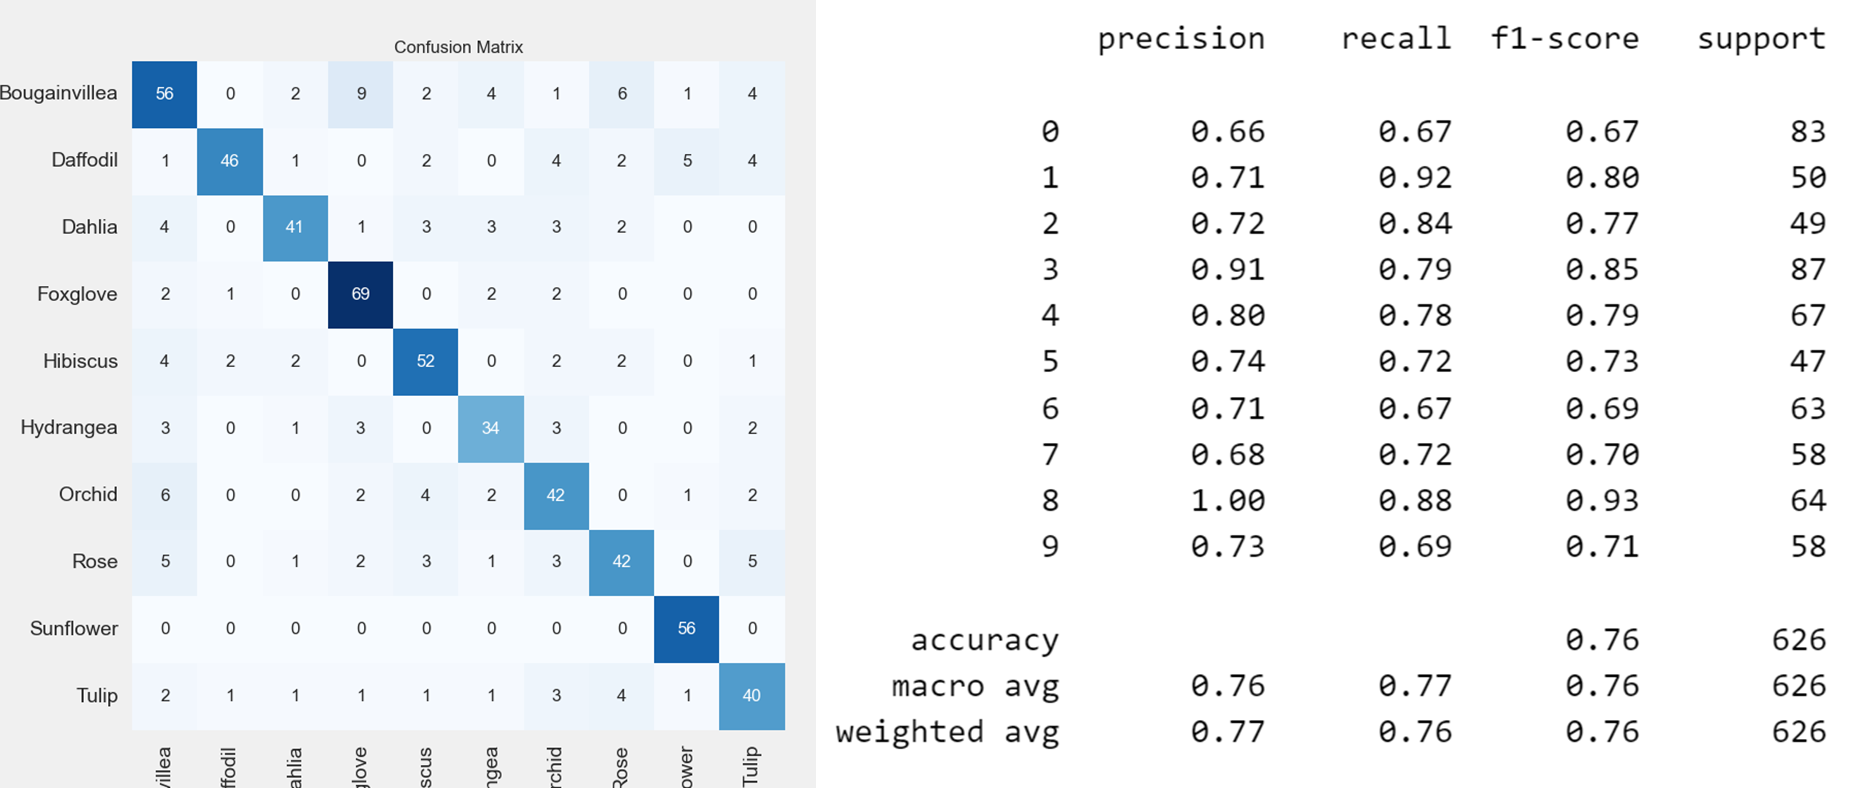
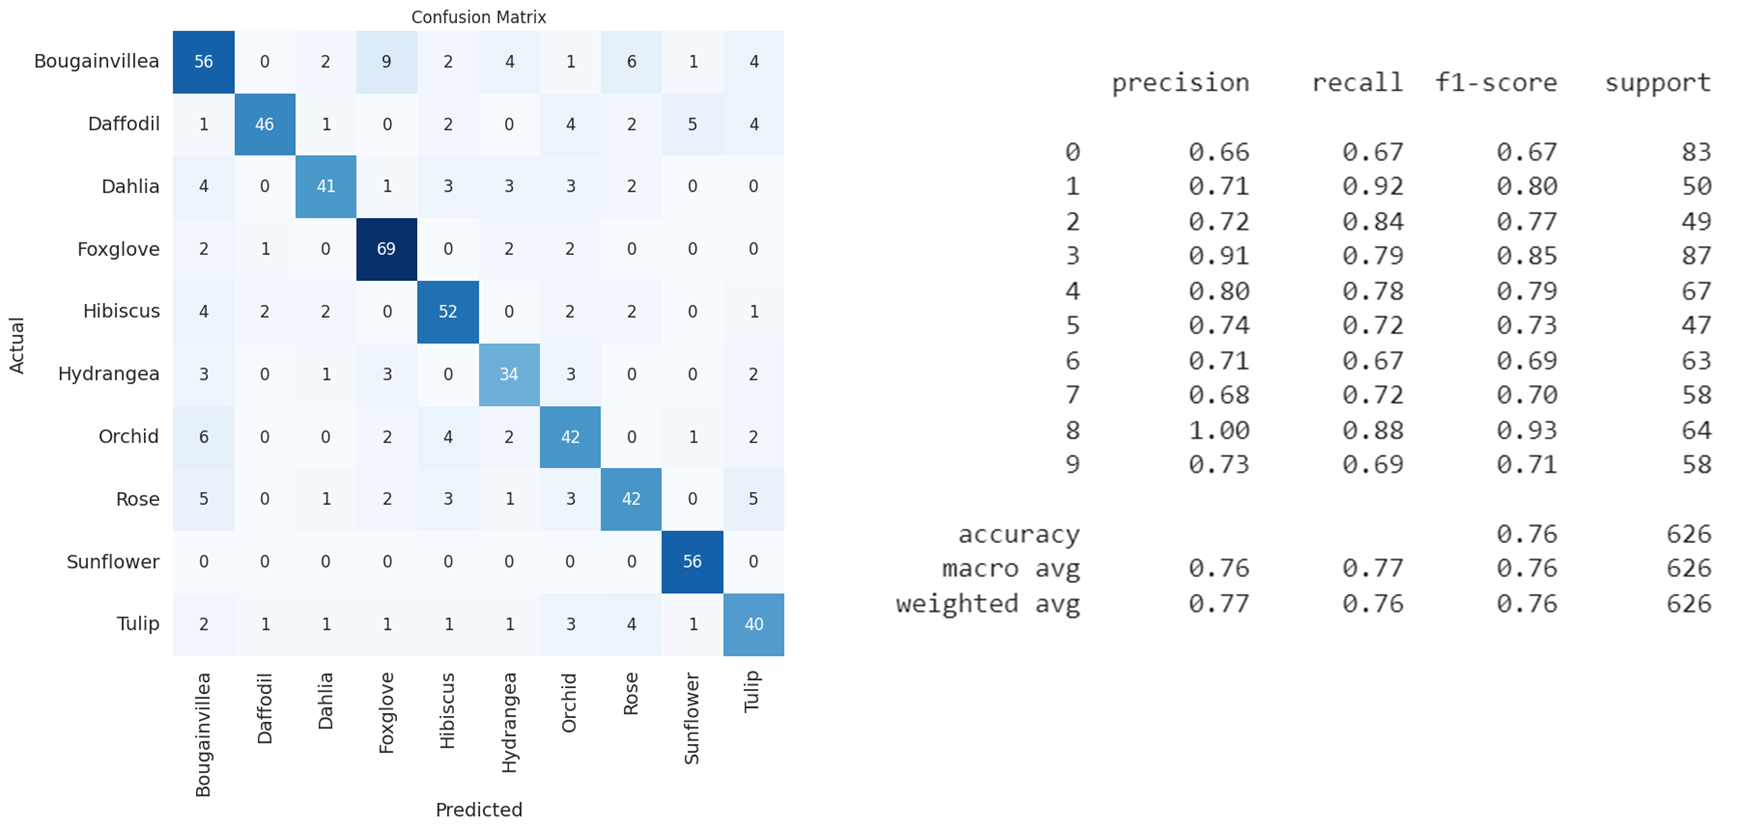
update images for ppt

diff --git a/README.md b/README.md
@@ -29,11 +29,11 @@ This step involved getting rid of junk images such as drawings, flowers tagged i
 
 As part of preprocessing step we rescaled, resized and labeled our data.We then converted our images and labels as .npy files for ease of storing and using them in models. The files can be located [here](https://github.com/joshi-swetam/Flower-Recognition-AI-ML-Model/tree/main/Models/dataset). We used tensorflow and Keras for training our model. We stared with different combinations of Convolutional and pooling layers for feature extractions.The clasiffication layers were combinations of flatten ,dense and dropout layers. We tried building layers with different optimizers and activations functions. We also tried transfer leaning models but they were computaionally more expensive and time consuming. The best accuracy we could reach was 79 percent.All our ipynb files and .h5 saved models can be referred [here](https://github.com/joshi-swetam/Flower-Recognition-AI-ML-Model/tree/main/Models)
 
-We quantified our model using confusion matrix and classification report.After saving the model we made predictions using prediction dataset. 
+We quantified our model using confusion matrix and classification report.After saving the model we made predictions using prediction dataset.
 ![image](/Images/Picture_79.png)
 
-As classification report depicts the accuracy of our model is 79% although the precision differs for flowers. It performs well with sunflowers and Bougainvillea but not so well in predicting Hyrangea.Another thing we noticed that significant numbere of daffodils were being classified as sunflowers.
-If we look at the confusion matrix and classification report for the 76% accuracy below it performs well in predicting foxgllove as well as Daffodils in comparison to the model with 79 percent accuracy. 
+As classification report depicts the accuracy of our model is 79% although the precision differs for flowers. It performs well with sunflowers and bougainvillea but not so well in predicting hyrangea and rose. Another thing we noticed that significant number of daffodils were being classified as sunflowers.
+If we look at the confusion matrix and classification report for the 76% accuracy below it performs well in predicting rose as well as Daffodils in comparison to the model with 79% accuracy. 
 ![Image](/Images/Picture_76.png)
 
 ## Flask App
@@ -49,4 +49,3 @@ We then made flask based app to upload the image and make predictions. The files
 - https://medium.com/@adrianmrit/creating-simple-image-datasets-with-flickr-api-2f19c164d82f
 - https://pixabay.com/api/docs/#api_search_images
 - https://medium.com/@ferrygunawan/create-flower-image-classification-with-tensorflow-keras-and-flask-4fd6efd4c5ac
-
